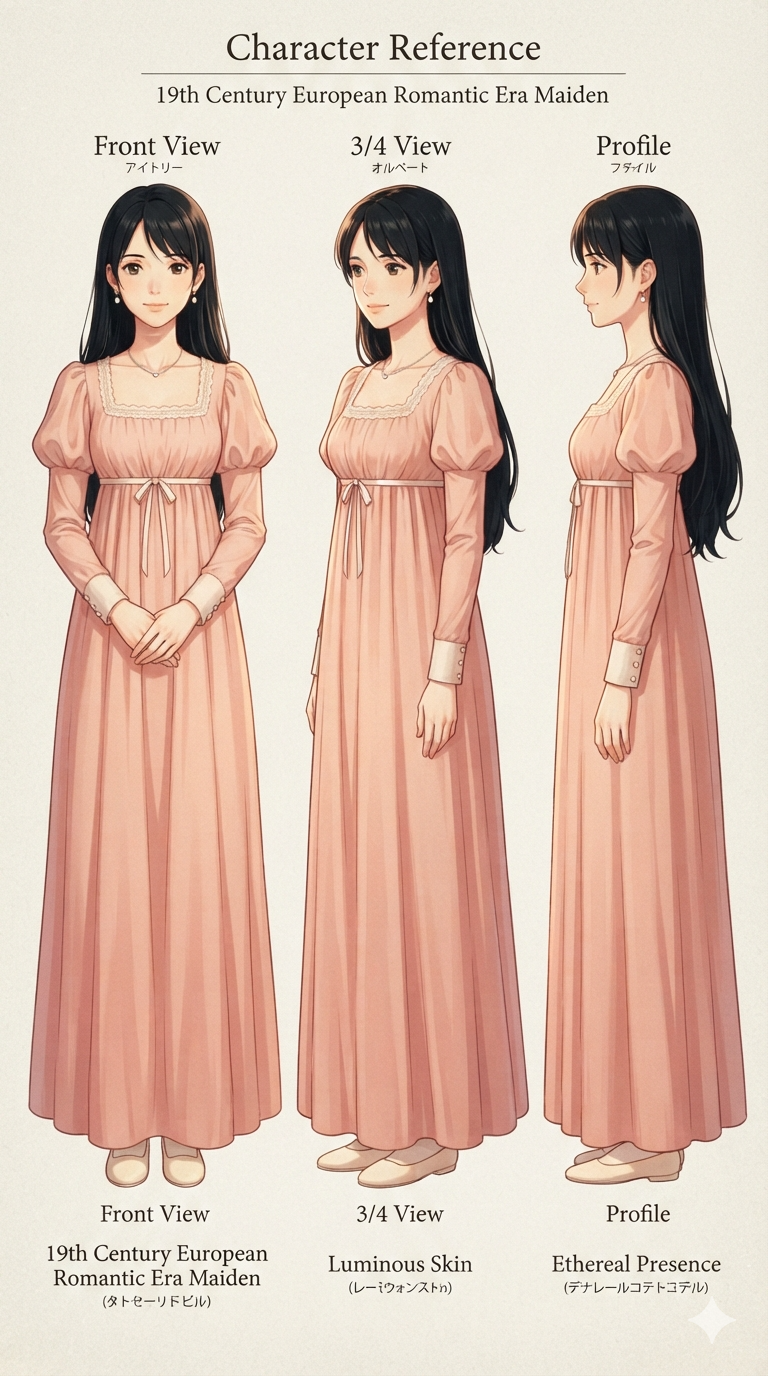
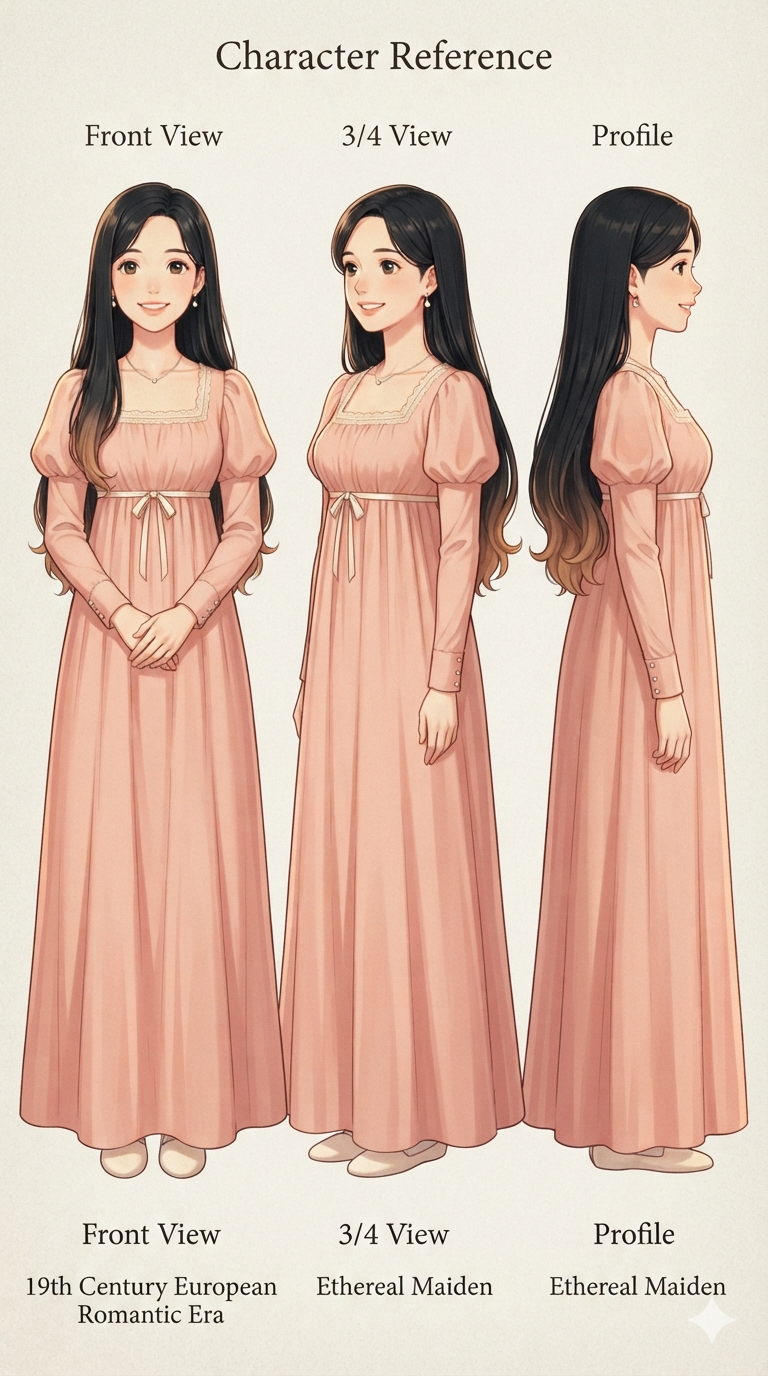
Remove caramel ombré from Jazmín (IA rendered as bleaching, not subtlety)
- Bible + jazmin.txt: hair is uniform natural black, keep volume/waves at tips
- Update diff table accordingly
- Regenerate jazmin_ref.png with new traits (fuller cheeks, open smile, curves)

Highlights readback failed: intended subtle ombré came out as visible dye lines.
Simpler wins.

diff --git a/character_bible_la_estancia.md b/character_bible_la_estancia.md
@@ -58,7 +58,7 @@ Referencias: fotos reales de personas que inspiraron los relatos (autoría del a
 
 **Rasgos anime destilados:**
 - Piel porcelana pálida con matices peach suaves, calidad casi translúcida (encaja con "ángel encarnado" del texto, más clara que Rocío y Orión) — LOCKED: no cambiar aunque referencias fotográficas del autor sugieran tono más cálido
-- Cabello negro azabache muy largo (hasta mid-back), base lisa con más volumen y ondas suaves en las puntas; **highlights sutiles caramelo/castaño claro solo en las puntas** (efecto ombré natural muy suave, apenas perceptible a distancia)
+- Cabello negro azabache muy largo (hasta mid-back), base lisa con más volumen y ondas suaves en las puntas — color negro uniforme sin highlights (probamos ombré caramelo y la IA lo interpretó como decoloramiento, no sutileza)
 - Ojos negros profundos — el texto los describe como "negros azabaches, tan oscuros como el vacío mismo"; refuerzo visual clave; forma almendrada expresiva
 - Sin gafas — contraste visual con la relojera
 - Sonrisa cálida amplia con dientes visibles al sonreír, pero contenida en el aire (abierta y confiada, ni exagerada ni reservada)
@@ -72,7 +72,7 @@ Referencias: fotos reales de personas que inspiraron los relatos (autoría del a
 - Aire etéreo — el texto sugiere que él la percibe casi como "ángel encarnado"
 
 **Prompt base (para generación):**
-> anime style young woman, luminous porcelain-fair skin with soft peach undertones, very long black hair with subtle caramel/light chestnut ombré highlights only on the tips flowing past shoulders down to mid-back, softly waved at the ends with volume, deep dark obsidian almond-shaped eyes, no glasses, warm open smile with visible teeth yet composed, soft rounded features with gently full cheeks, natural soft curves build, wearing elegant coral/dusty rose empire-waist dress, ethereal aura, sunset lighting rojo/violeta, Makoto Shinkai aesthetic
+> anime style young woman, luminous porcelain-fair skin with soft peach undertones, very long uniform black hair flowing past shoulders down to mid-back, softly waved at the ends with volume, deep dark obsidian almond-shaped eyes, no glasses, warm open smile with visible teeth yet composed, soft rounded features with gently full cheeks, natural soft curves build, wearing elegant coral/dusty rose empire-waist dress, ethereal aura, sunset lighting rojo/violeta, Makoto Shinkai aesthetic
 
 ---
 
@@ -83,7 +83,7 @@ Riesgo: ambas tienen cabello negro largo y piel morena. Para que la audiencia la
 | Rasgo | Relojera | Nueva visita |
 |---|---|---|
 | Gafas | Sí, rectangulares finas | No |
-| Largo de cabello | Hombros, ondulado | Mid-back, liso con puntas onduladas y highlights caramelo sutiles |
+| Largo de cabello | Hombros, ondulado | Mid-back, negro uniforme liso con puntas onduladas |
 | Paleta ropa | Oscuros + blanco | Claros + coral/durazno |
 | Tono de piel | Ivory cálida con matices olivo | Porcelana pálida con matices peach |
 | Postura | Rígida, precisa | Fluida, serena |
